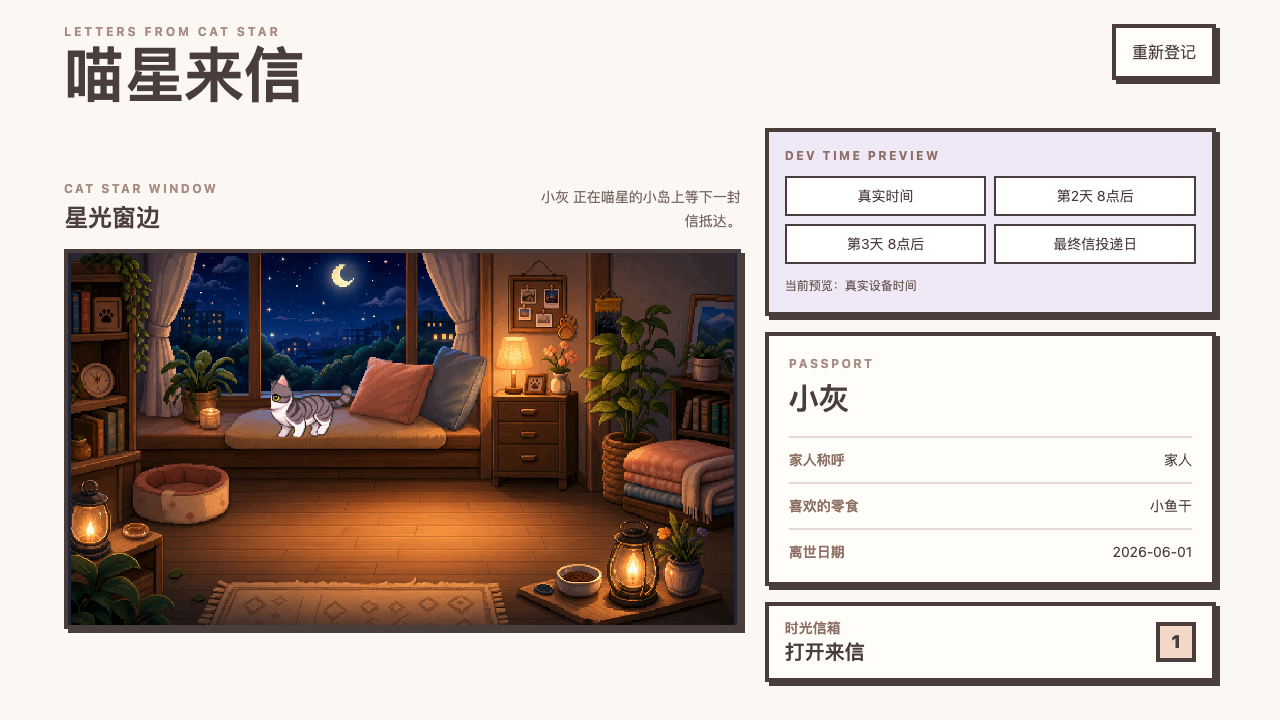
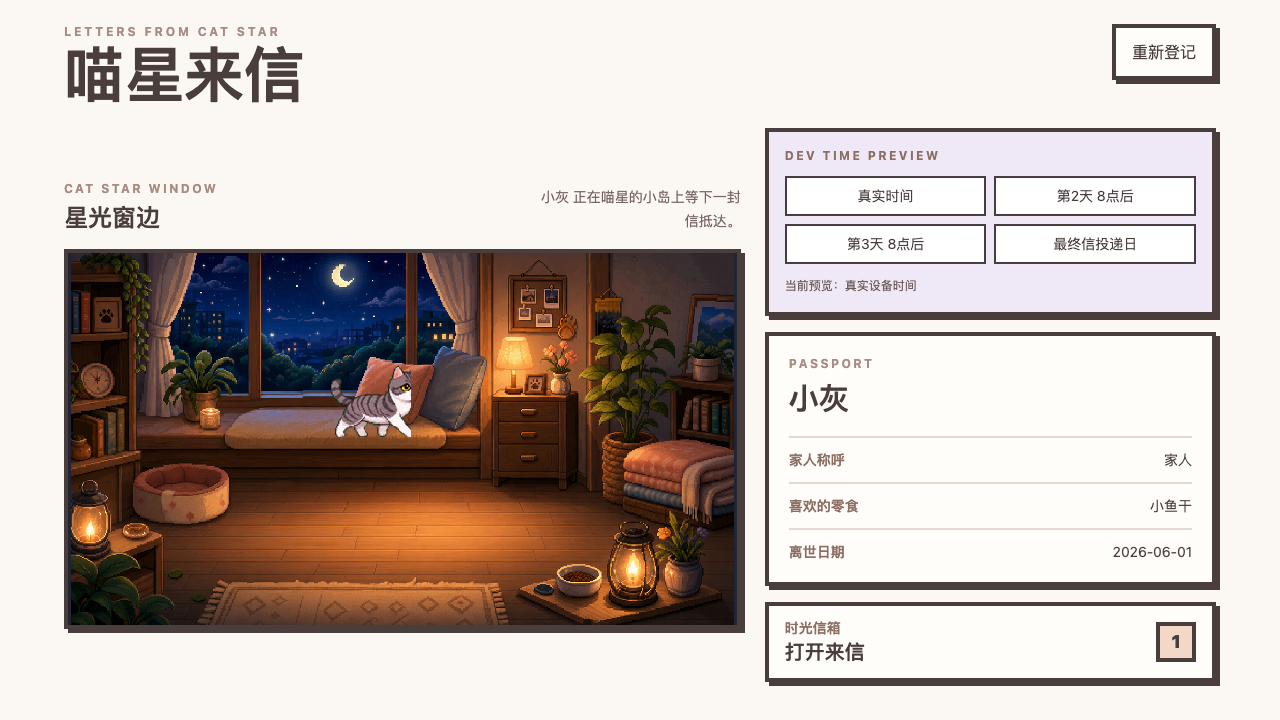
test: validate runtime review screenshots

Changed region(s): [[0.1875, 0.5194, 0.3438, 0.6111]]

diff --git a/scripts/capture_cat_runtime_review.py b/scripts/capture_cat_runtime_review.py
@@ -21,6 +21,8 @@ from pathlib import Path
 from urllib.error import URLError
 from urllib.request import ProxyHandler, build_opener
 
+from PIL import Image
+
 
 HOST = "127.0.0.1"
 PORT = int(os.environ.get("CATSTAR_REVIEW_PORT", "5191"))
@@ -28,6 +30,11 @@ BASE_URL = f"http://{HOST}:{PORT}"
 OUT_DIR = Path(os.environ.get("CATSTAR_REVIEW_OUT", f"docs/art/runtime-review/{datetime.now():%Y-%m-%d}"))
 CHANNEL = os.environ.get("CATSTAR_PLAYWRIGHT_CHANNEL", "chrome")
 VIEWPORT = os.environ.get("CATSTAR_REVIEW_VIEWPORT", "1280,720")
+EXPECTED_VIEWPORT = tuple(int(value) for value in VIEWPORT.split(",", maxsplit=1))
+ROOM_REVIEW_REGION = (64, 248, 744, 634)
+MIN_ROOM_UNIQUE_COLORS = 10_000
+MIN_ROOM_MEAN_LUMINANCE = 40
+MAX_ROOM_MEAN_LUMINANCE = 140
 
 REVIEW_PASSPORT = {
     "id": "runtime-review",
@@ -43,7 +50,7 @@ REVIEW_PASSPORT = {
 }
 
 SHOTS = [
-    ("default-walk-2s.png", "/", 2200),
+    ("default-walk-4s.png", "/", 4500),
     ("window-bench-6s.png", "/?catstarRoutine=approachWindowBench", 6000),
     ("catbed-rest-10s.png", "/?catstarRoutine=approachCatBed", 10000),
     ("food-bowl-eat-8s.png", "/?catstarRoutine=approachFoodBowl", 8000),
@@ -110,6 +117,28 @@ def capture(storage_state: Path) -> None:
 
         print(f"Capturing {filename} ...", flush=True)
         subprocess.run(command, check=True)
+        validate_screenshot(OUT_DIR / filename)
+
+
+def mean_luminance(image: Image.Image) -> float:
+    histogram = image.convert("L").histogram()
+    pixels = image.width * image.height
+    return sum(value * count for value, count in enumerate(histogram)) / pixels
+
+
+def validate_screenshot(path: Path) -> None:
+    image = Image.open(path).convert("RGB")
+    if image.size != EXPECTED_VIEWPORT:
+        raise RuntimeError(f"{path}: expected viewport {EXPECTED_VIEWPORT}, got {image.size}")
+
+    room = image.crop(ROOM_REVIEW_REGION)
+    unique_colors = len(room.getcolors(maxcolors=room.width * room.height) or [])
+    luminance = mean_luminance(room)
+
+    if unique_colors < MIN_ROOM_UNIQUE_COLORS:
+        raise RuntimeError(f"{path}: room region looks blank; only {unique_colors} unique colors")
+    if not (MIN_ROOM_MEAN_LUMINANCE <= luminance <= MAX_ROOM_MEAN_LUMINANCE):
+        raise RuntimeError(f"{path}: room luminance out of range: {luminance:.1f}")
 
 
 def main() -> None:

diff --git a/docs/art/candidates/product-cat-actions-runtime.md b/docs/art/candidates/product-cat-actions-runtime.md
@@ -30,7 +30,7 @@ It is the review checklist for the current product-asset pass.
   its face/body mass during final art review.
 - Current runtime review screenshots are stored under
   `docs/art/runtime-review/2026-06-15/`:
-  - `default-walk-2s.png`
+  - `default-walk-4s.png`
   - `window-bench-6s.png`
   - `catbed-rest-10s.png`
   - `food-bowl-eat-8s.png`
